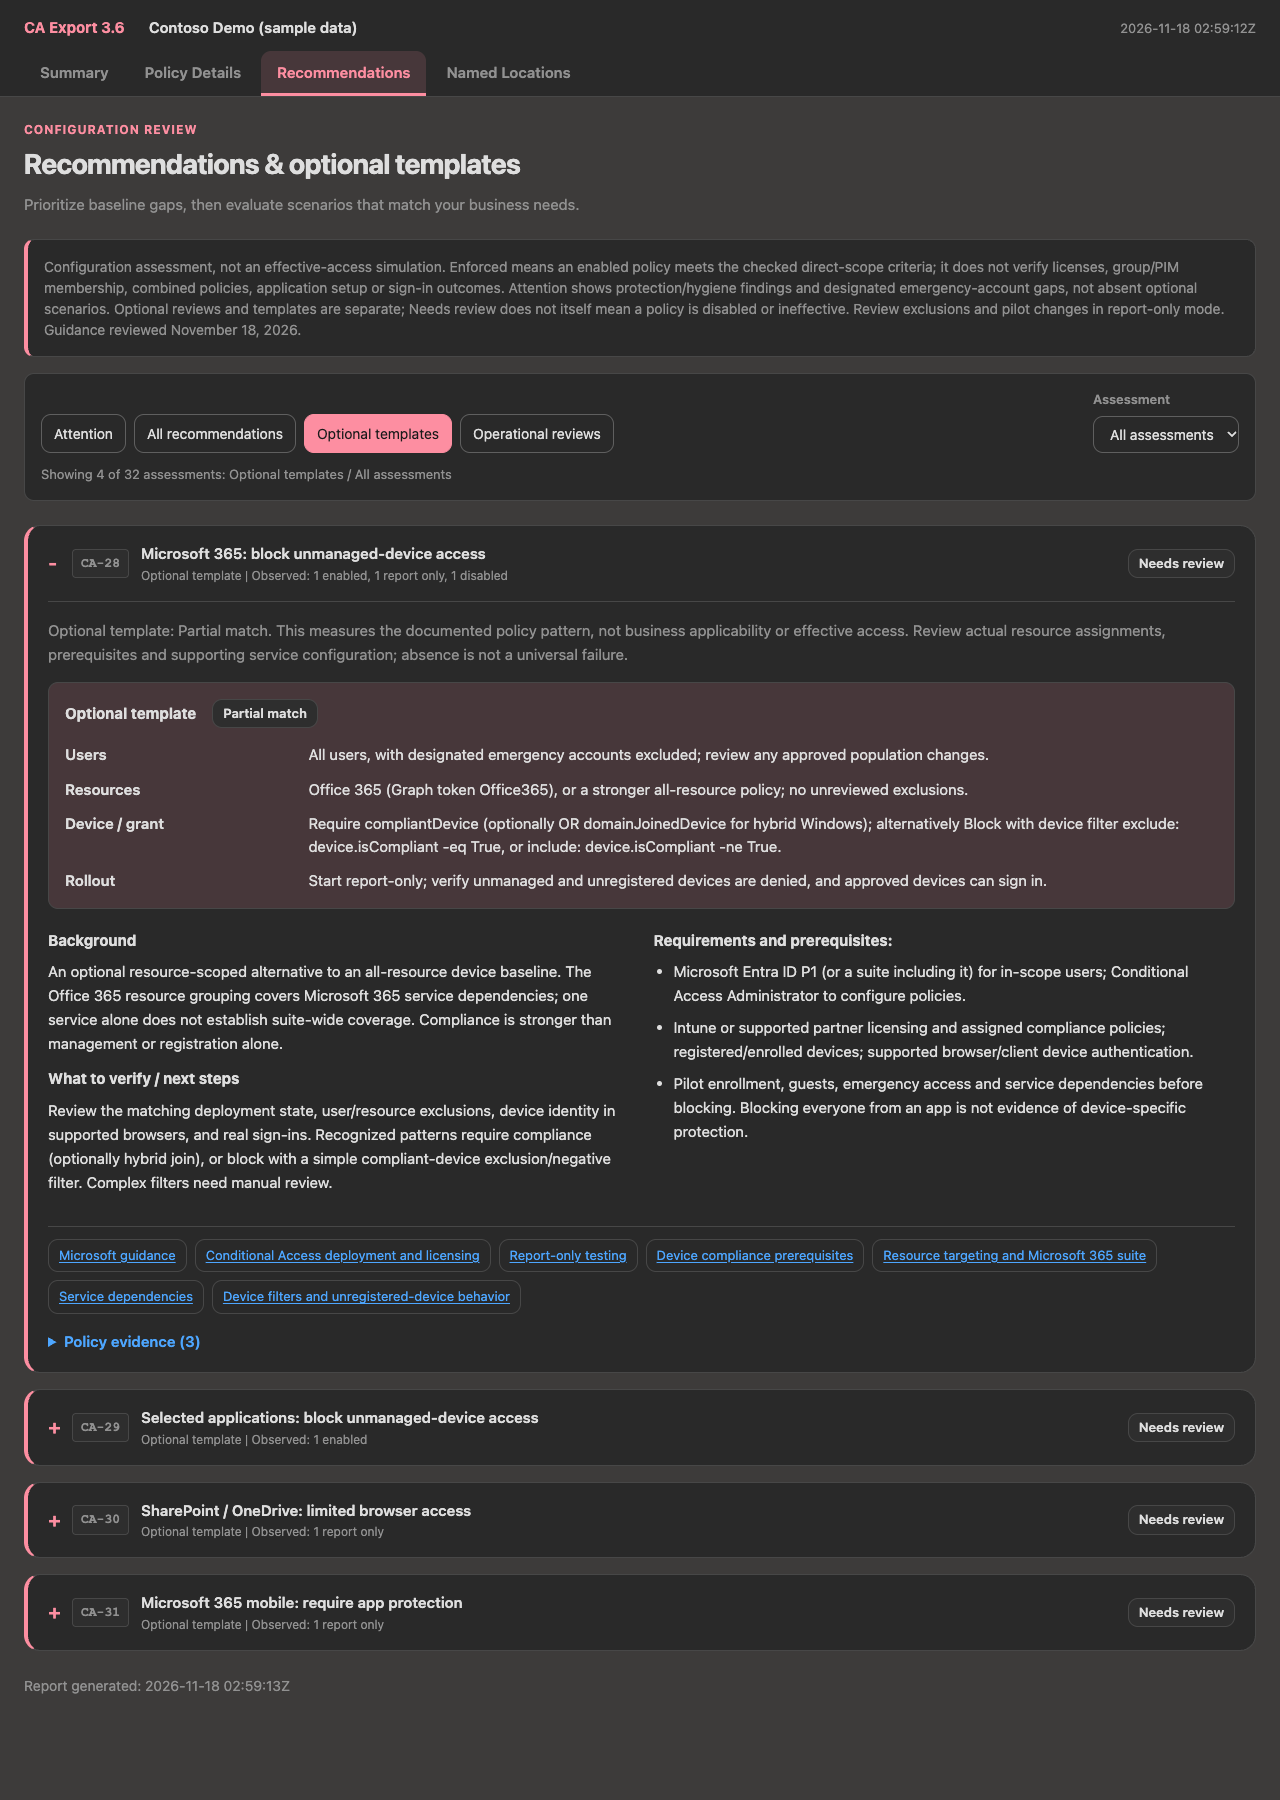
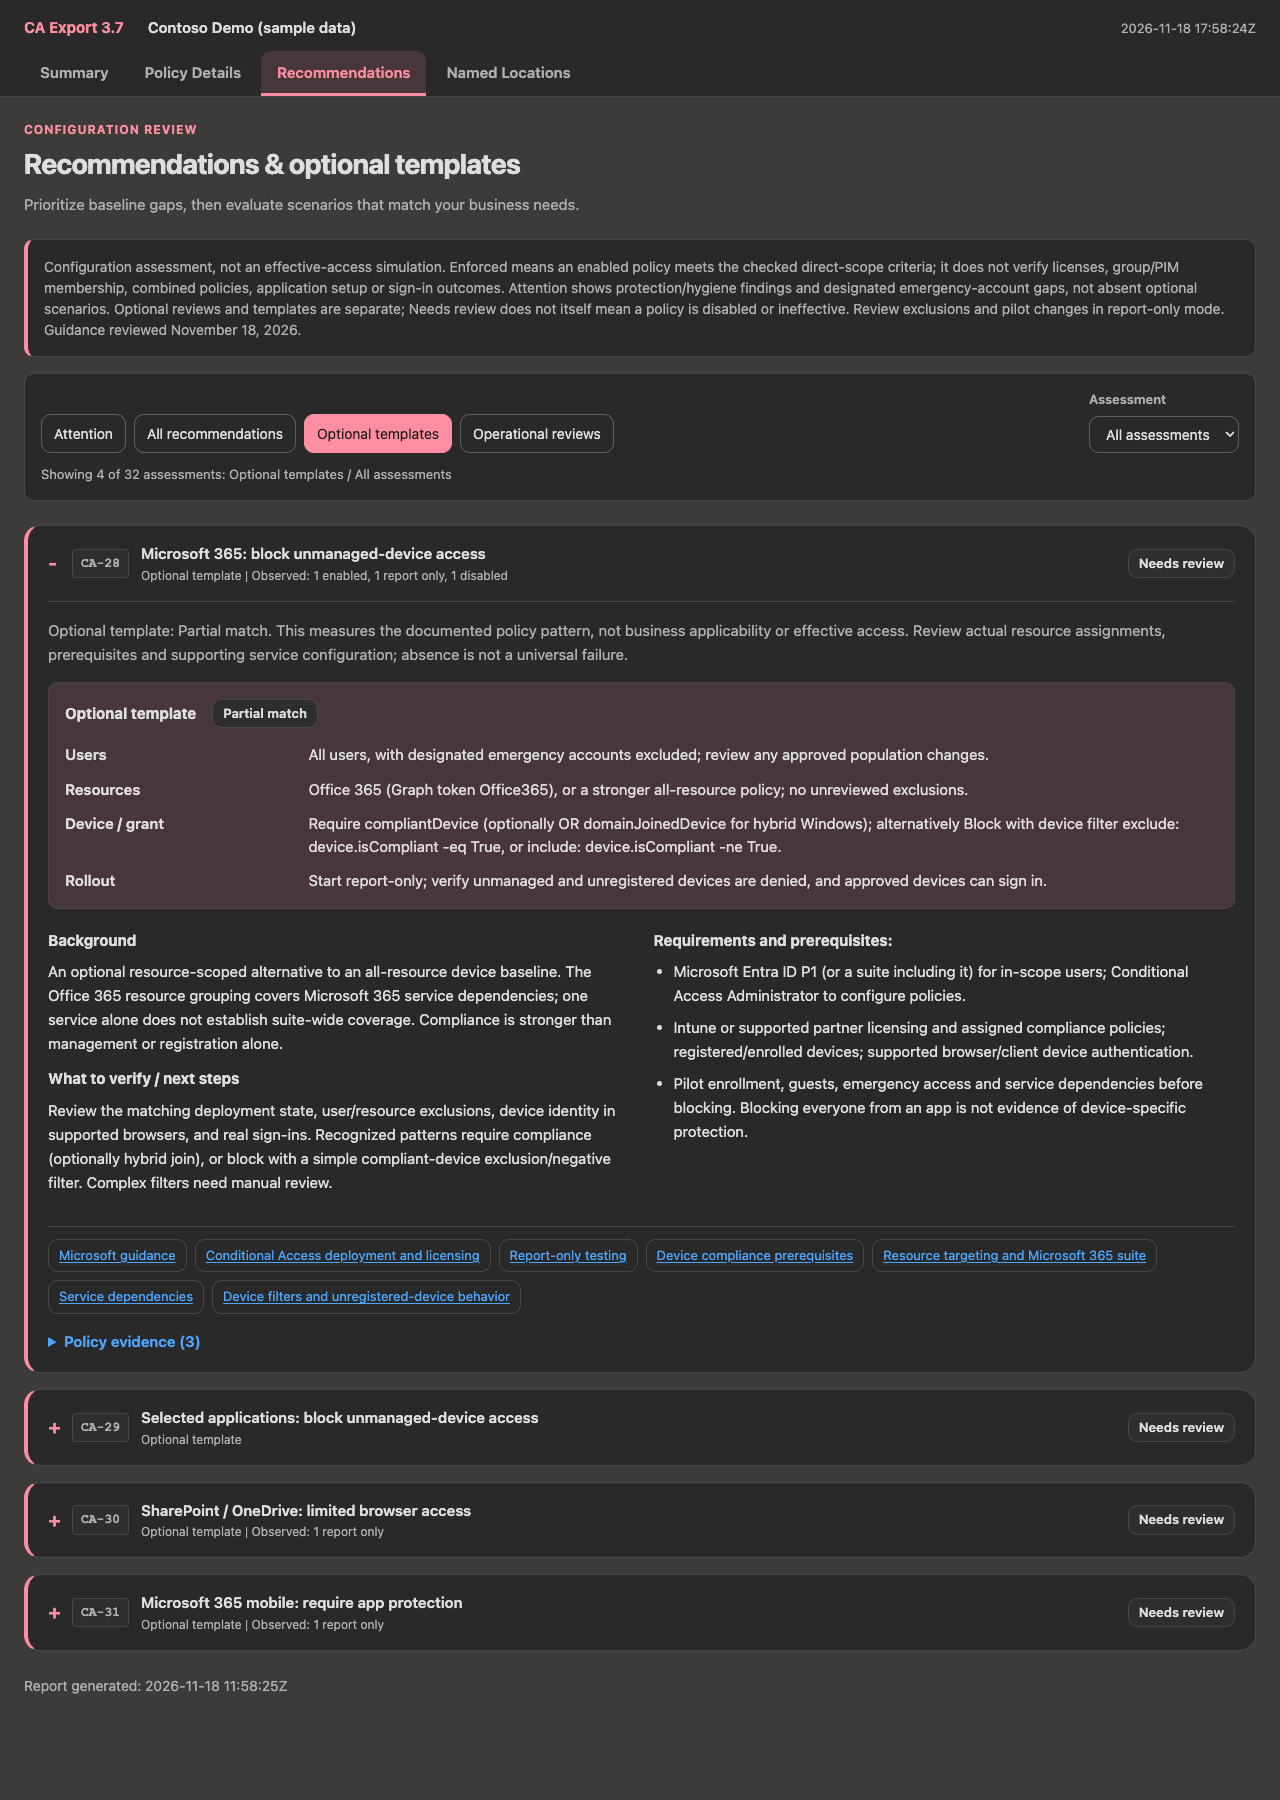
Refresh sample screenshots for exporter version 3.7
Regenerate all five README screenshots from the current exporter using fresh mocked Contoso sample data and align the screenshot caption with version 3.7. Validate documented examples, report generation, version labels, view selection, inventory counts, layout bounds, and browser runtime errors.

Copilot-Session: 3307a004-5b80-4043-a071-80ede6488a07

diff --git a/README.md b/README.md
@@ -39,7 +39,7 @@ Two scripts are provided:
 
 ## Screenshots — sample data only
 
-These captures show version 3.6 using **Contoso Demo (sample data)**. All tenant-specific information was generated from scratch with mocked Graph responses, not copied or anonymized from a real tenant. Account/group names and customer-specific IDs are fictional; network prefixes are reserved documentation ranges. Built-in Microsoft resource/role identifiers are public constants.
+These captures show version 3.7 using **Contoso Demo (sample data)**. All tenant-specific information was generated from scratch with mocked Graph responses, not copied or anonymized from a real tenant. Account/group names and customer-specific IDs are fictional; network prefixes are reserved documentation ranges. Built-in Microsoft resource/role identifiers are public constants.
 
 The sample policies illustrate report behavior, **not a recommended production baseline**. Both light and dark themes are shown.
 
